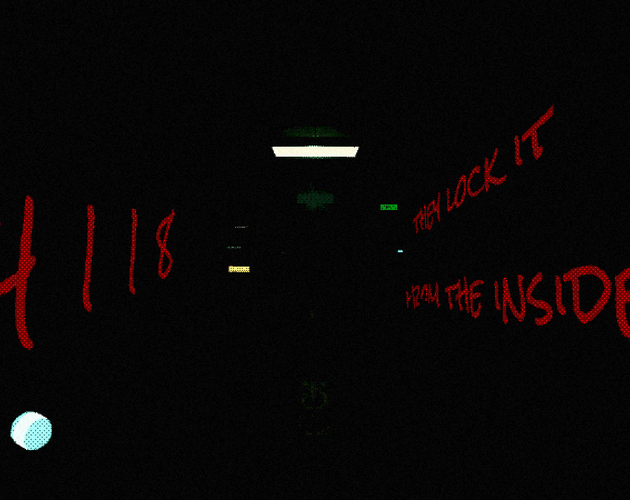
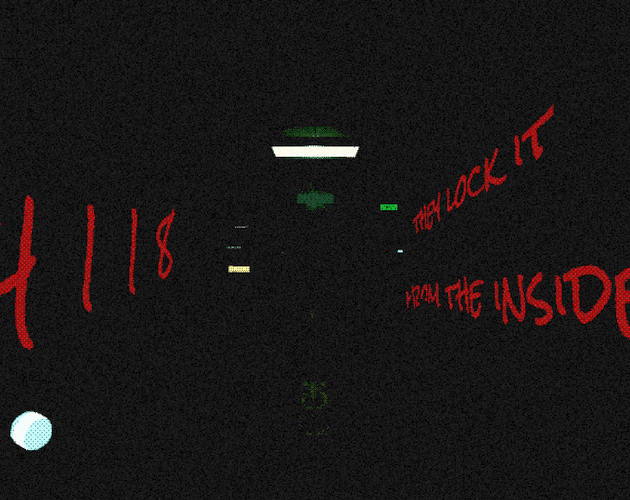
docs(press): brighten the cover, and keep the ladder that justifies it
The author could not read the cover at thumbnail size. The plate is room 2
unmedicated — the darkest the ward ever gets, mean luminance 9/255 — which
is right for the game and wrong for a 630x500 store tile.

make_covers.py grows --lift GAMMA (and --plate). Shipped cover is now
--lift 1.6, taking the frame from mean 11.3 to 23.9: the corridor structure,
ceiling grid and far door become visible while it stays unmistakably a dark
game.

Gamma, not a multiply: a multiply clips the ceiling panel to white long
before the walls leave black. Same reasoning the posterise shader's
shadow_gamma is built on — this ward's signal lives at the bottom of the
range.

Recapturing at the game's own maximum brightness was tried and rejected on
evidence, not taste: brightness 2.0 only moves tonemap exposure 0.525 ->
0.840, so the frame stays dark, and it would change what the shot claims the
game looks like. A cover treatment is honest about being a treatment; a
gameplay frame shot at an atypical setting is not.

The lift IMPROVES code legibility rather than washing it out — measured on
the 4118 scrawl against the wall beside it, contrast goes 75.2 at raw to
104.9 at 1.8, because gamma raises the mid-dark red strokes faster than the
near-black wall. Above ~2.0 the dither and film grain amplify into visible
noise and the ward loses its murk. Usable range is 1.4-1.8; the full ladder
is kept in press/out/lift-*.png so the choice can be made by looking, and
the table is in press/README.md.

diff --git a/press/make_covers.py b/press/make_covers.py
@@ -2,7 +2,26 @@
 """Compose press/out/cover-titled.png and cover-plain.png from a Godot
 capture. itch's cover requirement is exactly 630x500 — see press/README.md.
 
-Usage: python3 press/make_covers.py [--b-colour red|teal]
+Usage: python3 press/make_covers.py [--b-colour red|teal] [--lift GAMMA]
+
+BRIGHTNESS. The source plate is room 2 unmedicated, which is the darkest the
+ward ever gets — mean luminance about 9/255. That is correct for the game and
+poor for a 630x500 store thumbnail seen at a glance, where the author reported
+"you can't really see what's in it". --lift applies a GAMMA curve to the frame
+before the type goes on: v' = (v/255) ** (1/gamma).
+
+Gamma, not a multiply, and not the game's own brightness setting:
+  * a multiply scales everything, so the ceiling panel clips to white long
+    before the walls come up out of black;
+  * gamma lifts the shadows and leaves the highlights nearly where they are,
+    which is the same reasoning the posterise shader's shadow_gamma uniform is
+    built on — this ward's signal lives in the bottom of the range;
+  * recapturing at a higher in-game brightness would change what the frame
+    CLAIMS the game looks like. A cover treatment is honest about being a
+    treatment; a gameplay frame shot at an atypical setting is not.
+
+The type is unaffected: the lift is applied to the plate only, and the bottom
+gradient that keeps the title legible is composited after it.
 
 THE "B" COLOUR IS AN OPEN QUESTION, hence the flag. The previous cover set the
 B in red and press/README.md describes the treatment that way, but the GAME's
@@ -48,6 +67,7 @@ DIM = (166, 176, 173)
 
 B_COLOUR = RED
 OUT_TITLED = "cover-titled.png"
+LIFT = 1.0
 
 
 def crop_to_cover(im: Image.Image) -> Image.Image:
@@ -65,6 +85,15 @@ def crop_to_cover(im: Image.Image) -> Image.Image:
         y0 = (h - new_h) // 2
         im = im.crop((0, y0, w, y0 + new_h))
     return im.resize((COVER_W, COVER_H), Image.LANCZOS)
+
+
+def lift_shadows(im: Image.Image, gamma: float) -> Image.Image:
+    """Gamma-lift the frame. gamma 1.0 is a byte-exact passthrough."""
+    if abs(gamma - 1.0) < 1e-6:
+        return im
+    inv = 1.0 / gamma
+    lut = [min(255, int(round(255.0 * ((i / 255.0) ** inv)))) for i in range(256)]
+    return im.point(lut * 3)
 
 
 def tracked_text_size(draw, text, font, tracking):
@@ -110,7 +139,7 @@ def bottom_gradient(im: Image.Image, strength=0.75, start_frac=0.45) -> Image.Im
 def main():
     os.makedirs(OUT_DIR, exist_ok=True)
     base = Image.open(RAW).convert("RGB")
-    cover = crop_to_cover(base)
+    cover = lift_shadows(crop_to_cover(base), LIFT)
 
     # --- cover-plain.png -----------------------------------------------
     plain = cover.copy()
@@ -155,7 +184,14 @@ if __name__ == "__main__":
     ap.add_argument("--b-colour", choices=["red", "teal"], default="red",
                     help="colour of the title's B — see the module docstring")
     ap.add_argument("--out", default=None, help="override the titled filename")
+    ap.add_argument("--lift", type=float, default=1.0,
+                    help="shadow-lift gamma for the frame; 1.0 = untouched")
+    ap.add_argument("--plate", default=None,
+                    help="source frame under press/raw/; defaults to hero-r2.png")
     a = ap.parse_args()
     B_COLOUR = RED if a.b_colour == "red" else TEAL
     OUT_TITLED = a.out or "cover-titled.png"
+    LIFT = a.lift
+    if a.plate:
+        RAW = os.path.join(ROOT, "raw", a.plate)
     main()

diff --git a/press/README.md b/press/README.md
@@ -30,6 +30,45 @@ see "On generated art" below.
   that built the two files above from `raw/`. Real, checked-in tools now,
   not throwaway — see "Regenerating" below.
 
+## Cover brightness
+
+The cover plate is room 2 unmedicated — the darkest the ward ever gets, mean
+luminance about 9/255. Correct for the game, poor for a 630x500 store
+thumbnail seen at a glance. `make_covers.py --lift GAMMA` applies a shadow
+lift to the frame before the type goes on; **the shipped cover is `--lift
+1.6`**.
+
+Gamma rather than a multiply, and rather than recapturing at a higher in-game
+brightness:
+
+- a multiply clips the ceiling panel to white long before the walls come up
+  out of black;
+- gamma lifts the shadows and leaves highlights roughly in place — the same
+  reasoning `ui/shaders/posterize.gdshader`'s `shadow_gamma` is built on;
+- recapturing at the game's own maximum brightness (2.0) was tried and barely
+  helps: tonemap exposure only moves 0.525 -> 0.840, so the frame stays dark.
+  It also changes what the shot CLAIMS the game looks like. A cover treatment
+  is honest about being a treatment; a gameplay frame shot at an atypical
+  setting is not.
+
+Measured on the `4118` scrawl against the bare wall beside it, the lift
+*improves* code legibility rather than washing it out — gamma raises the
+mid-dark red strokes faster than the near-black wall:
+
+| lift | frame mean | code contrast |
+|---|---|---|
+| 1.0 (raw) | 11.3 | 75.2 |
+| 1.4 | 19.3 | 94.8 |
+| **1.6 (shipped)** | **23.9** | — |
+| 1.8 | 29.0 | 104.9 |
+| 2.2 | 39.1 | 110.0 |
+| 2.6 | 48.6 | 112.5 |
+
+Above ~2.0 the ordered dither and film grain amplify into visible noise and
+the ward loses its murk, which is the contrast the whole game runs on. The
+usable range is roughly 1.4-1.8. `press/out/lift-*.png` holds the ladder for
+comparison; regenerate any rung with `python3 press/make_covers.py --lift 1.8`.
+
 ## Recommended screenshot set (in this order)
 
 1. **`r2-keypad`** — dark corridor, a lit ceiling panel, the readable
